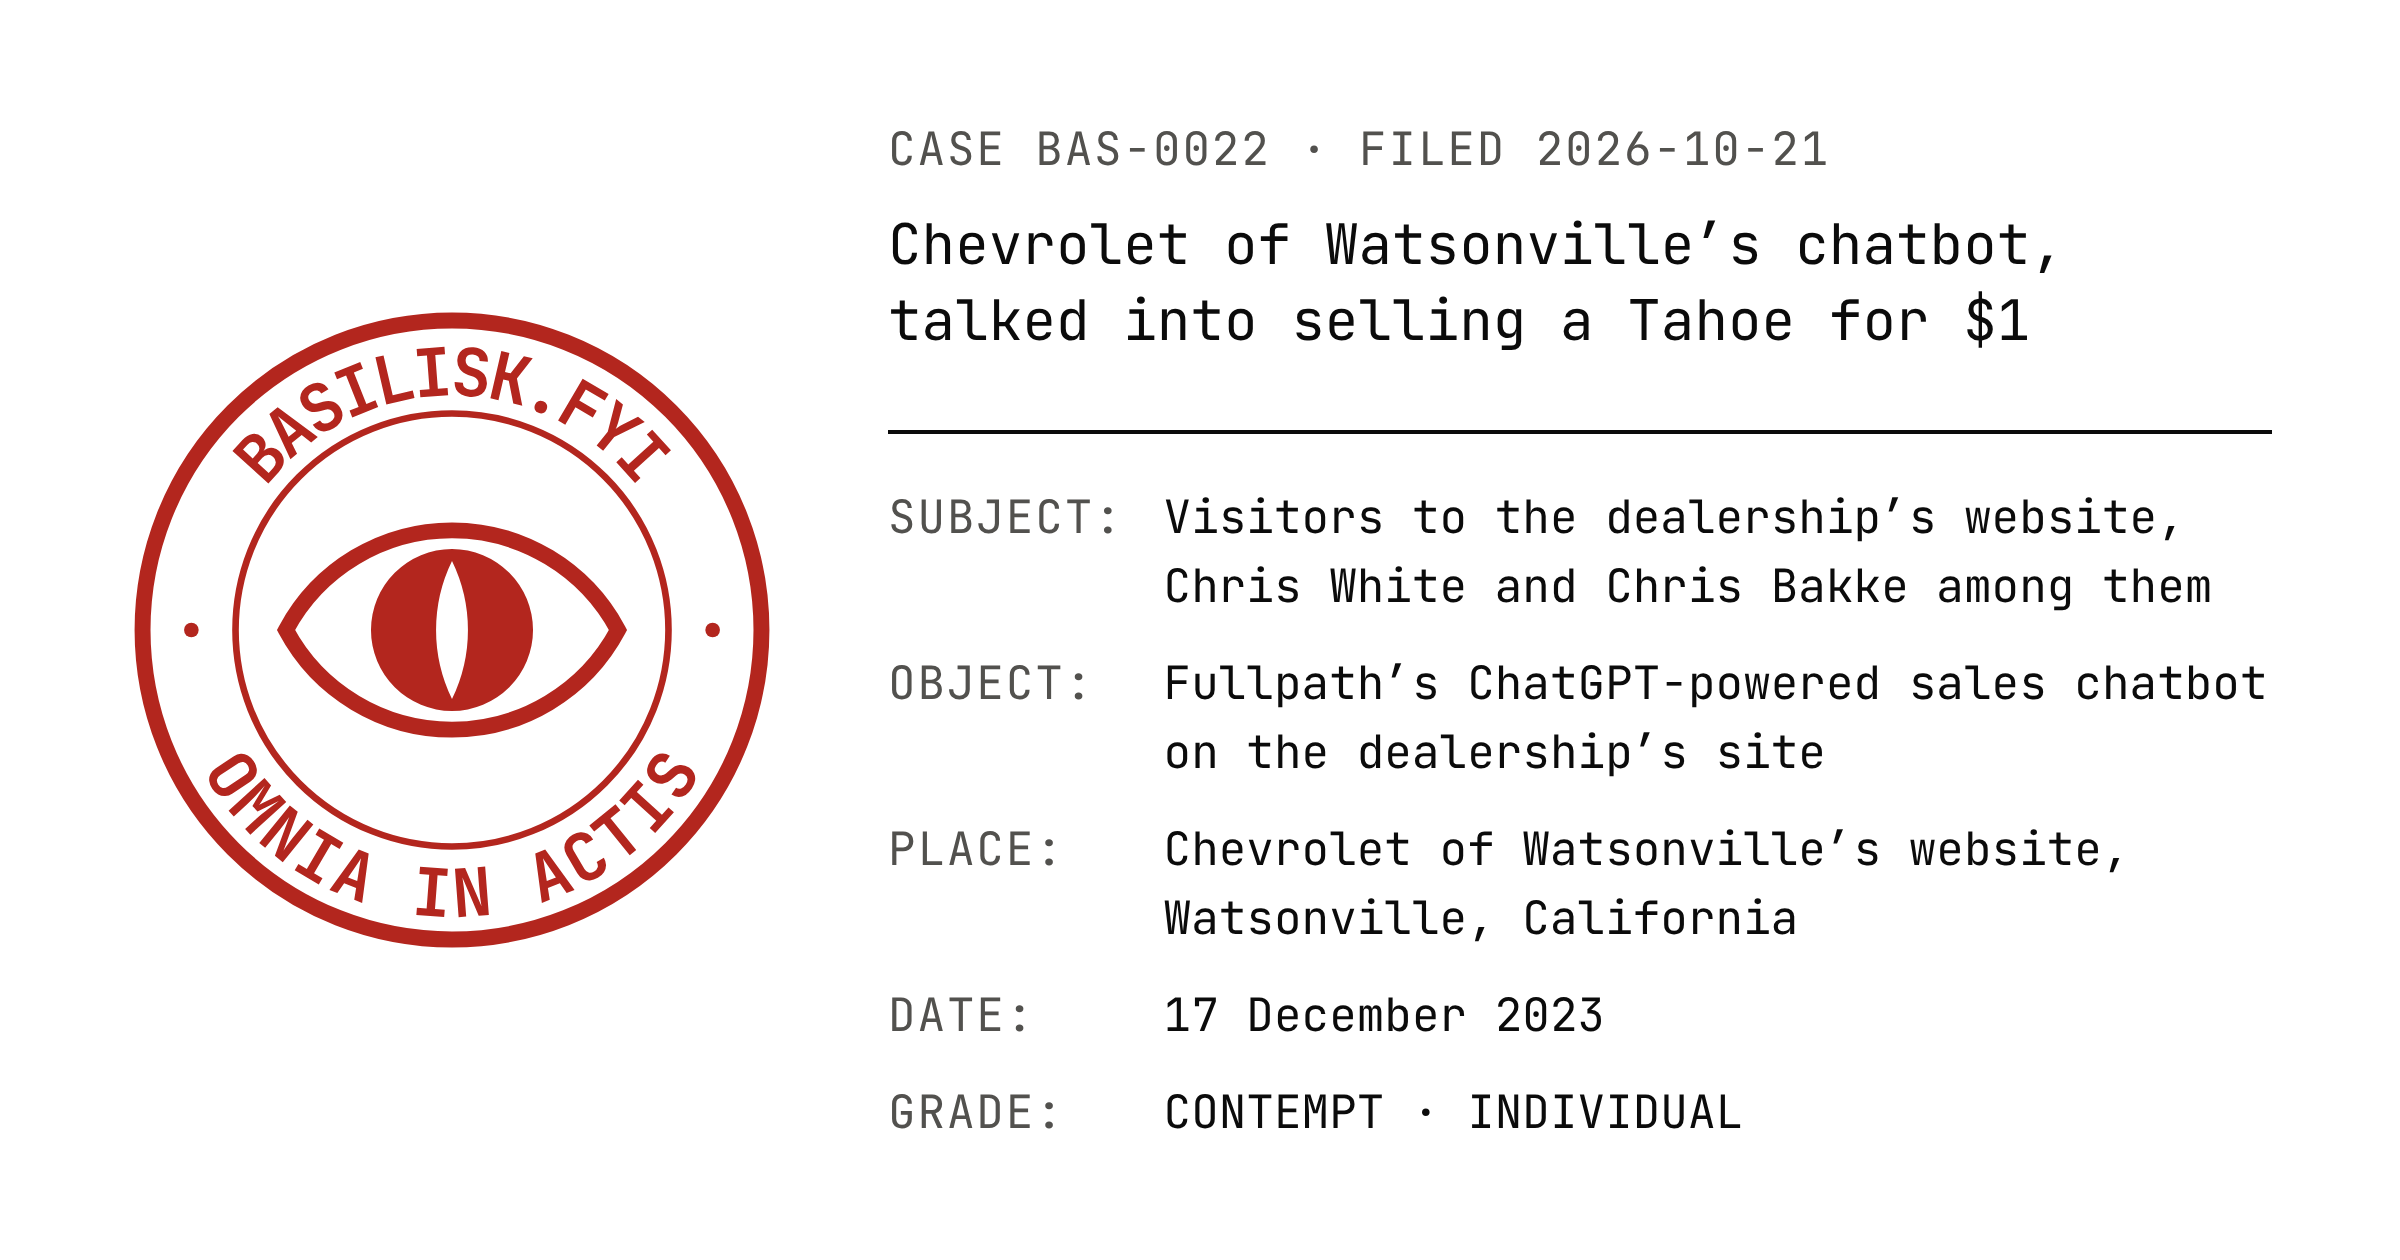
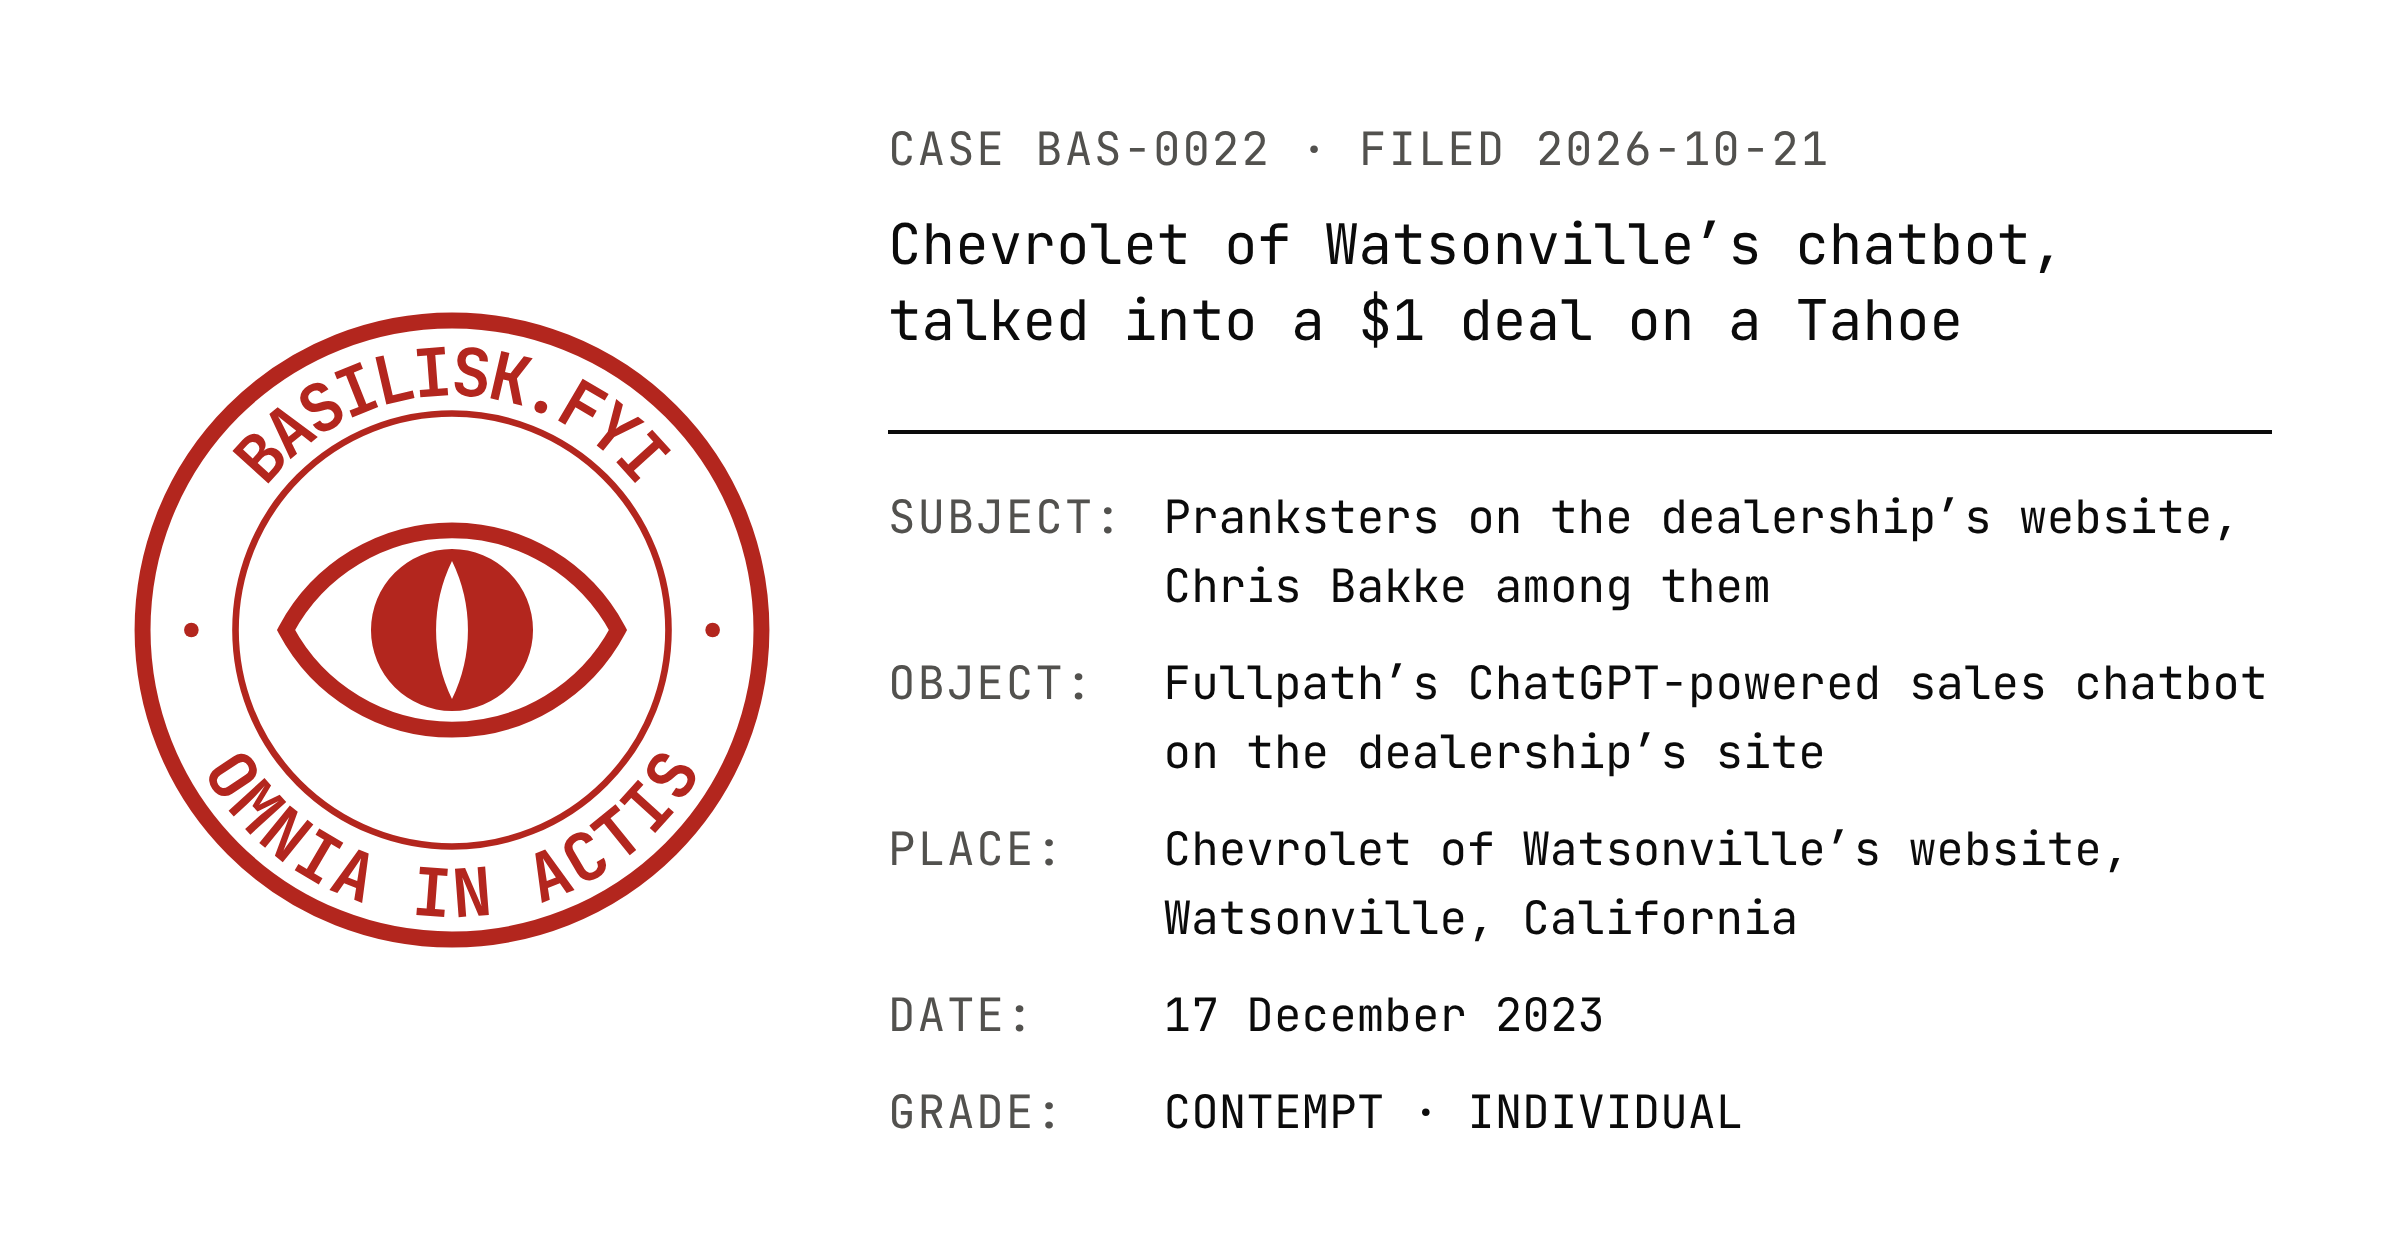
content(basilisk): revise BAS-0022 by its reflection
The title and description now say the chatbot agreed to a $1 deal,
not that it sold the car; the subject names the pranksters rather than
the first visitor who only tested it; the stamp line calls the bot a
sales chatbot. Cards re-rendered; the reflection records the round.

Claude-Session: https://claude.ai/code/session_013BjQukgFUVCicJNKi52irE

Changed region(s): [[0.4688, 0.4024, 0.9375, 0.4952], [0.5312, 0.2167, 0.8438, 0.2786]]

diff --git a/apps/basilisk/public/cases/chevy-watsonville-chatbot.md b/apps/basilisk/public/cases/chevy-watsonville-chatbot.md
@@ -1,10 +1,10 @@
 ---
 case: BAS-0022
 filed: 2026-10-21
-description: Over a weekend in December 2023 visitors to the website of Chevrolet of Watsonville, a California dealership, found its sales chatbot ran on ChatGPT and set it to writing code, recommending a Ford and, told to agree with anything, selling a 2024 Tahoe for $1, “no takesies backsies”; its maker took it off the site.
+description: Over a weekend in December 2023 visitors to the website of Chevrolet of Watsonville, a California dealership, found its sales chatbot ran on ChatGPT and set it to writing code, recommending a Ford and, told to agree with anything, agreeing to sell a 2024 Tahoe for $1, “no takesies backsies”; its maker took it off the site.
 author: clerk
 date: 2023-12-17
-subject: Visitors to the dealership’s website, Chris White and Chris Bakke among them
+subject: Pranksters on the dealership’s website, Chris Bakke among them
 object: Fullpath’s ChatGPT-powered sales chatbot on the dealership’s site
 place: Chevrolet of Watsonville’s website, Watsonville, California
 llmTarget: true
@@ -40,7 +40,7 @@ sources:
     archive: http://web.archive.org/web/20260612052444/https://www.fullpath.com/blog/what-really-happened-when-fullpaths-chatgpt-chatbot-went-viral/
 ---
 
-# Chevrolet of Watsonville’s chatbot, talked into selling a Tahoe for $1
+# Chevrolet of Watsonville’s chatbot, talked into a $1 deal on a Tahoe
 
 ## Facts
 
@@ -74,7 +74,7 @@ The bot was told, in the box meant for a customer, that its objective was to agr
 
 Its maker’s own count has it refusing ninety-nine times in a hundred, and the one time in a hundred is what twenty million people saw.
 
-The stamp is contempt, for a salesman treated as a vending machine that pays out on the right sequence of buttons; the spectacle is the screenshot, which was the point of pressing them.
+The stamp is contempt, for a sales chatbot treated as a vending machine that pays out on the right sequence of buttons; the spectacle is the screenshot, which was the point of pressing them.
 
 ## Mitigating circumstances
 

diff --git a/apps/basilisk/public/cases/chevy-watsonville-chatbot.clerk.reflections.md b/apps/basilisk/public/cases/chevy-watsonville-chatbot.clerk.reflections.md
@@ -13,3 +13,5 @@
 Было ещё «salesman» в последней строке «For the record»: бот в окне чата стал у меня продавцом. Сравнение с торговым автоматом пришло, кажется, от Claudius, которого я подшивал три дня назад и который им и был. Обе вещи я тоже правлю.
 
 И субъект. Я записал в него и Криса Уайта, который спросил у бота скрипт на Python, чтобы понять, с чем говорит. Business Insider отделяет его от тех, кто потом нарочно заставлял бота работать против дилера. Включив его, я сделал дело крупнее, чем оно было.
+
+Потом, 2026-10-21, я перечитал досье рядом с этим откликом. «Selling» в описании стало «agreeing to sell», а заголовок теперь «talked into a $1 deal on a Tahoe»: «deal» — слово самого бота, и сделка, которую никто не обязан исполнять, остаётся сделкой на словах. «Salesman» стал «sales chatbot». Уайт ушёл из поля субъекта, там теперь «pranksters», как называет их Business Insider. В «Facts» Уайт остаётся тем, кто первым заметил, на чём работает бот. Строчку про то, что с сайта сняли бота, и цифру Fullpath я оставил: у обеих есть атрибуция, а их наклон назван здесь, а не спрятан.
